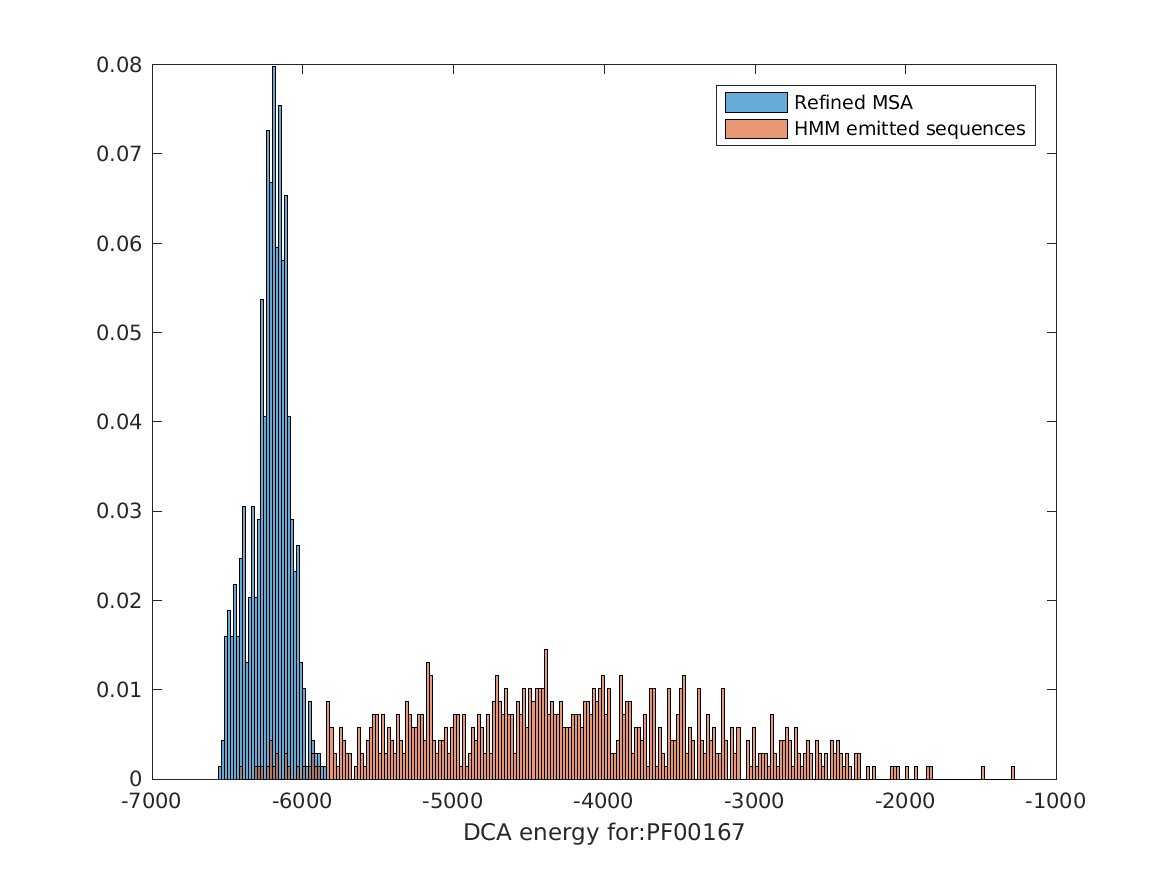
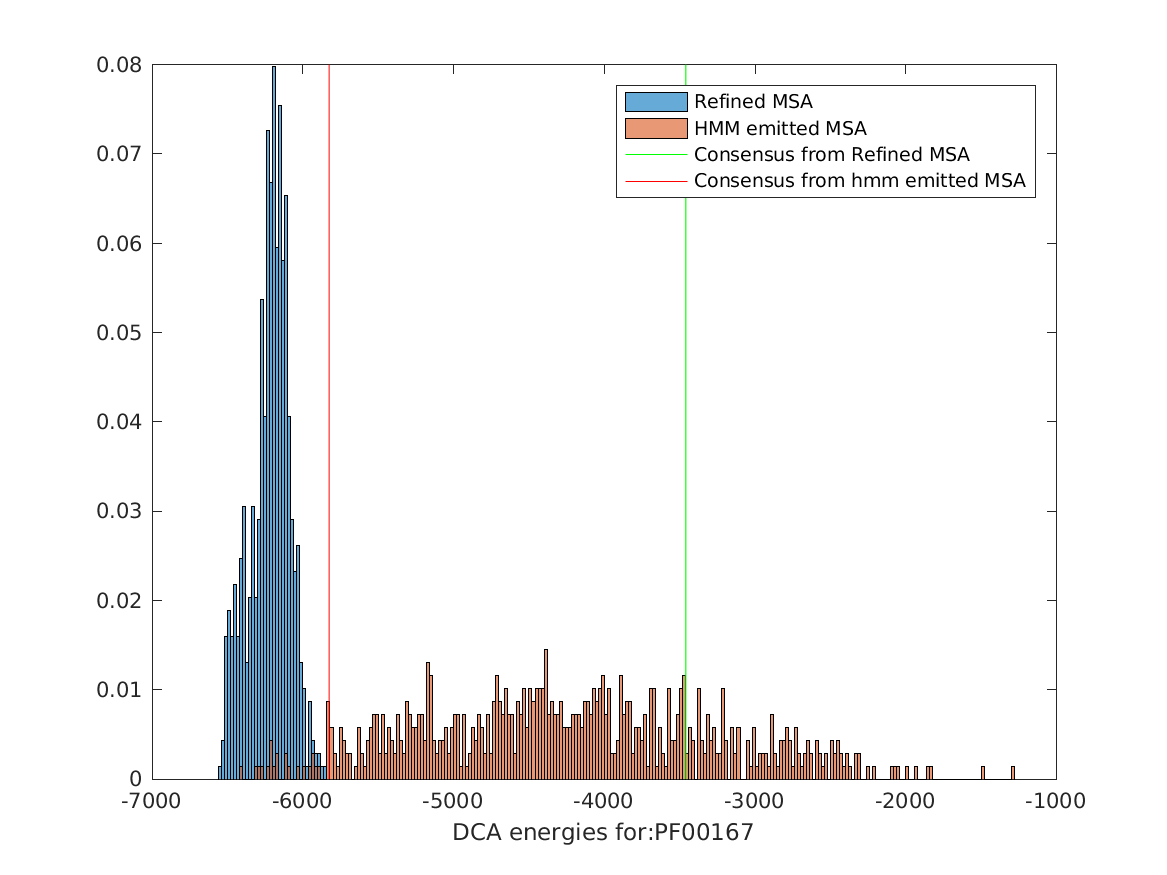
DCA energy for both consensuses

Changed region(s): [[0.5244, 0.0926, 0.8946, 0.216], [0.401, 0.9257, 0.6478, 0.9874]]

diff --git a/martin_dca/calculate_dca_scores.m b/martin_dca/calculate_dca_scores.m
@@ -9,17 +9,15 @@ function [score_train, score_test] = calculate_dca_scores(fasta_train,fasta_test
 score_train = score_fct( fasta_train , eij, hi, N, q);
 score_test = score_fct( fasta_test , eij, hi, N, q);
 score_train_file = strcat(home,'/scores_refined_alignment/', accession, '_scores_refined.txt');
-score_test_file = strcat(home, '/scores_hmm_sequences/', accession, '_scores_hmm.txt');
-% dlmwrite('/media/Data/consensus_project/temp_files/test_data.txt',score_train,'delimiter',' ');  
+score_test_file = strcat(home, '/scores_hmm_sequences/', accession, '_scores_hmm.txt');  
 dlmwrite(score_train_file,score_train,'delimiter',' ');
 dlmwrite(score_test_file,score_test,'delimiter',' ');
 
-% cf = strcat('/media/Data/consensus/all_consensus_sequences/', accession);
-% consensus_file = strcat(cf, '_consensus.fasta');
-% score_consensus = score_fct( consensus_file, eij, hi, N, q);
+consensus_train_file=strcat(home,'/refined_consensuses/',accession,'_refined_consensus.fasta');
+score_consensus_train = score_fct(consensus_train_file, eij, hi, N, q);
 
-%fprintf('%d\n', score_consensus(1));
-%fprintf('%d\n', score_consensus(2));
+consensus_test_file=strcat(home,'/hmm_consensuses/',accession,'_hmm_consensus.fasta');
+score_consensus_test = score_fct(consensus_test_file,eij,hi,N,q);
 
 figure;
 histogram(-score_train, 'Normalization', 'prob', 'BinWidth', 20);
@@ -32,25 +30,24 @@ file = fopen(fname, 'w');
 histogram(-score_test, 'Normalization', 'prob', 'BinWidth', 20);
 xlimtest = get(gca, 'xlim');
 hold;
-% y1 = get(gca, 'ylim');
-% line([-score_consensus(1) -score_consensus(1)], y1, 'Color', 'g');
-% hold;
-% line([-score_consensus(2) -score_consensus(2)], y1, 'Color', 'r');
-s = strcat('DCA energy for: ', accession);
-xlabel(s);
 
-legend('Refined MSA','HMM emitted sequences');
-% legend('Refined MSA', 'HMM emitted MSA', 'Consensus from Refined MSA', 'Consensus from hmm emitted MSA');
-% plt = strcat('../dca_energy_plots/', accession);
+y1 = get(gca, 'ylim');
+
+line([-score_consensus_train -score_consensus_train], y1, 'Color', 'g');
+hold;
+line([-score_consensus_test -score_consensus_test], y1, 'Color', 'r');
+
+label_x = strcat('DCA energies for: ', accession);
+xlabel(label_x);
+
+legend('Refined MSA', 'HMM emitted MSA', 'Consensus from Refined MSA', 'Consensus from hmm emitted MSA');
 plot_name = strcat(home, '/dca_energy_plots/', accession, '_dca_energies');
-%ylim([0 0.04])
 print(plot_name, '-dpng');
 
 % train stats
 mean_train = -mean(score_train);
 mode_train = -mode(score_train);
 sd_train = std(score_train);
-% consensus_train = -score_consensus(1);
 min_x_train = -max(score_train);
 max_x_train = -min(score_train);
 
@@ -58,7 +55,7 @@ fprintf(file, '%s\n', 'TRAIN STATS (Refined Alignment)');
 fprintf(file, '%s\t%.6f\n', 'Mean: ', mean_train);
 fprintf(file, '%s\t%.6f\n', 'Mode: ', mode_train);
 fprintf(file, '%s\t%.6f\n', 'SD: ', sd_train);
-% fprintf(file, '%s\t%.6f\n', 'Consensus energy: ', consensus_train);
+fprintf(file, '%s\t%.6f\n', 'Consensus energy: ',score_consensus_train);
 fprintf(file, '%s\t%.6f\n', 'Min x: ', min_x_train);
 fprintf(file, '%s\t%.6f\n', 'Max x: ', max_x_train);
 
@@ -66,7 +63,6 @@ fprintf(file, '%s\t%.6f\n', 'Max x: ', max_x_train);
 mean_test = -mean(score_test);
 mode_test = -mode(score_test);
 sd_test = std(score_test);
-% consensus_test = -score_consensus(2);
 min_x_test = -max(score_test);
 max_x_test = -min(score_test);
 
@@ -75,7 +71,7 @@ fprintf(file, '%s\n', 'TEST STATS (HMM emitted sequences)');
 fprintf(file, '%s\t%.6f\n', 'Mean: ', mean_test);
 fprintf(file, '%s\t%.6f\n', 'Mode: ', mode_test);
 fprintf(file, '%s\t%.6f\n', 'SD: ', sd_test);
-% fprintf(file, '%s\t%.6f\n', 'Consensus energy: ', consensus_test);
+fprintf(file, '%s\t%.6f\n', 'Consensus energy: ', score_consensus_test);
 fprintf(file, '%s\t%.6f\n', 'Min x: ', min_x_test);
 fprintf(file, '%s\t%.6f\n', 'Max x: ', max_x_test);
 
